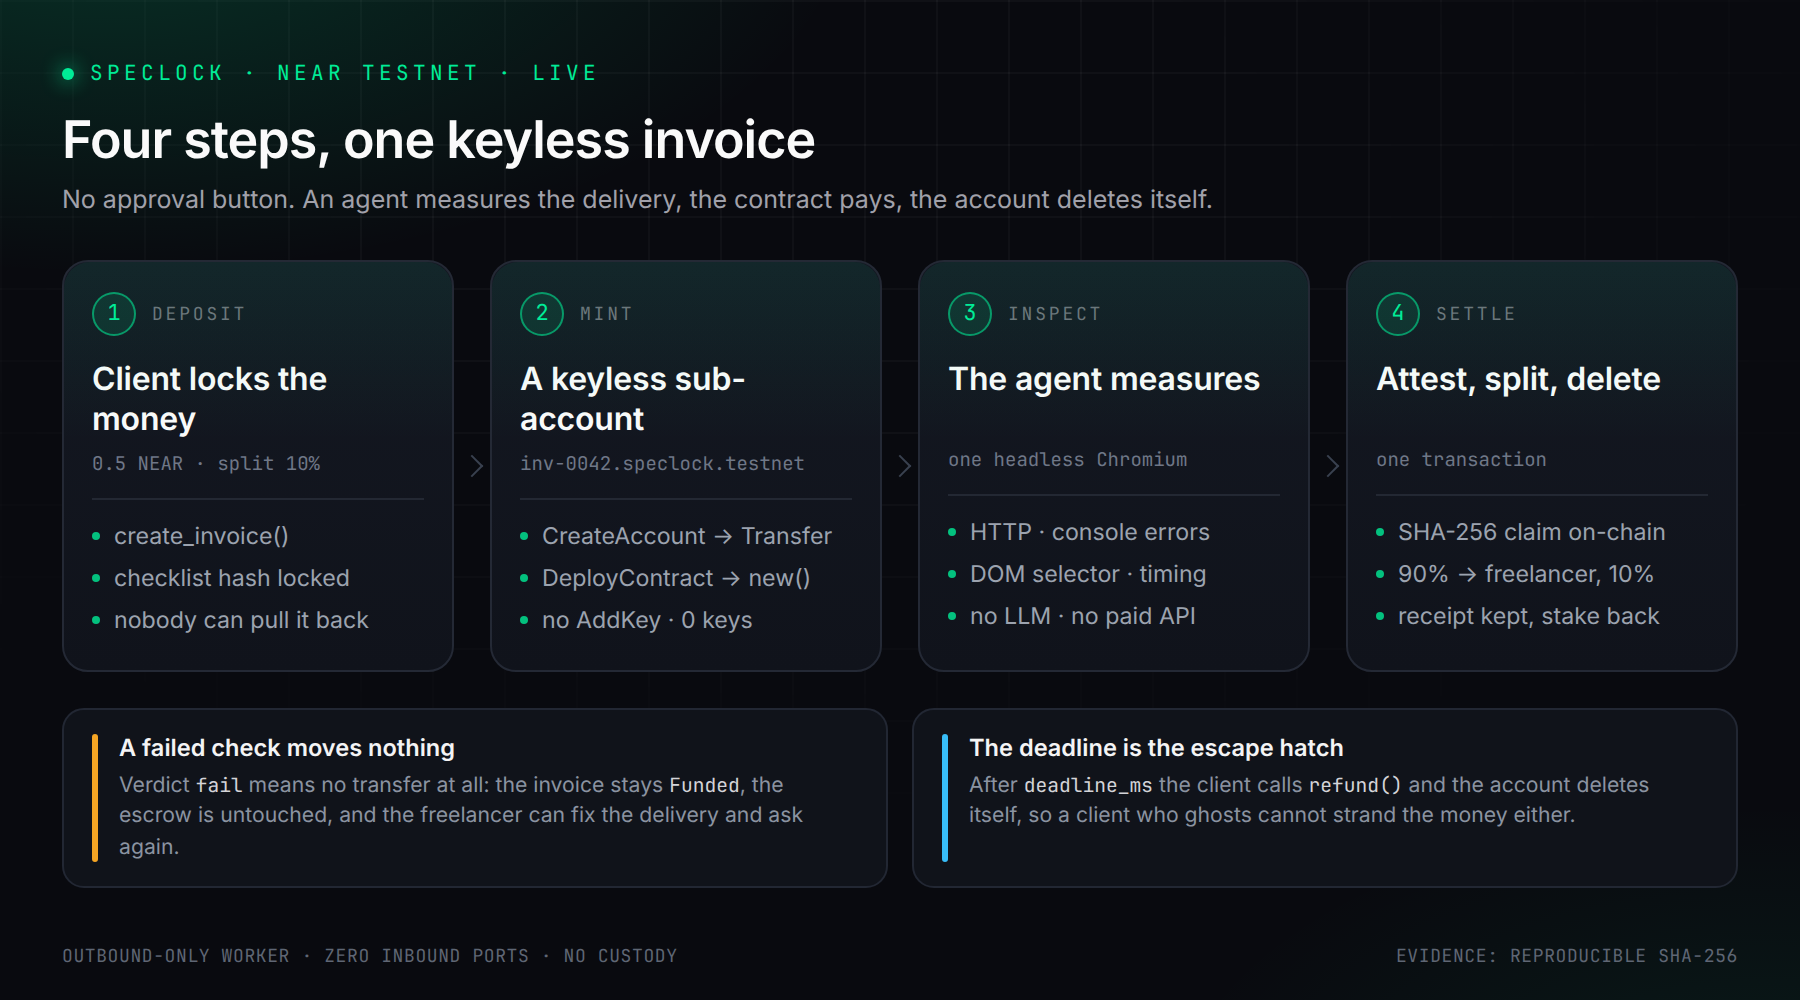
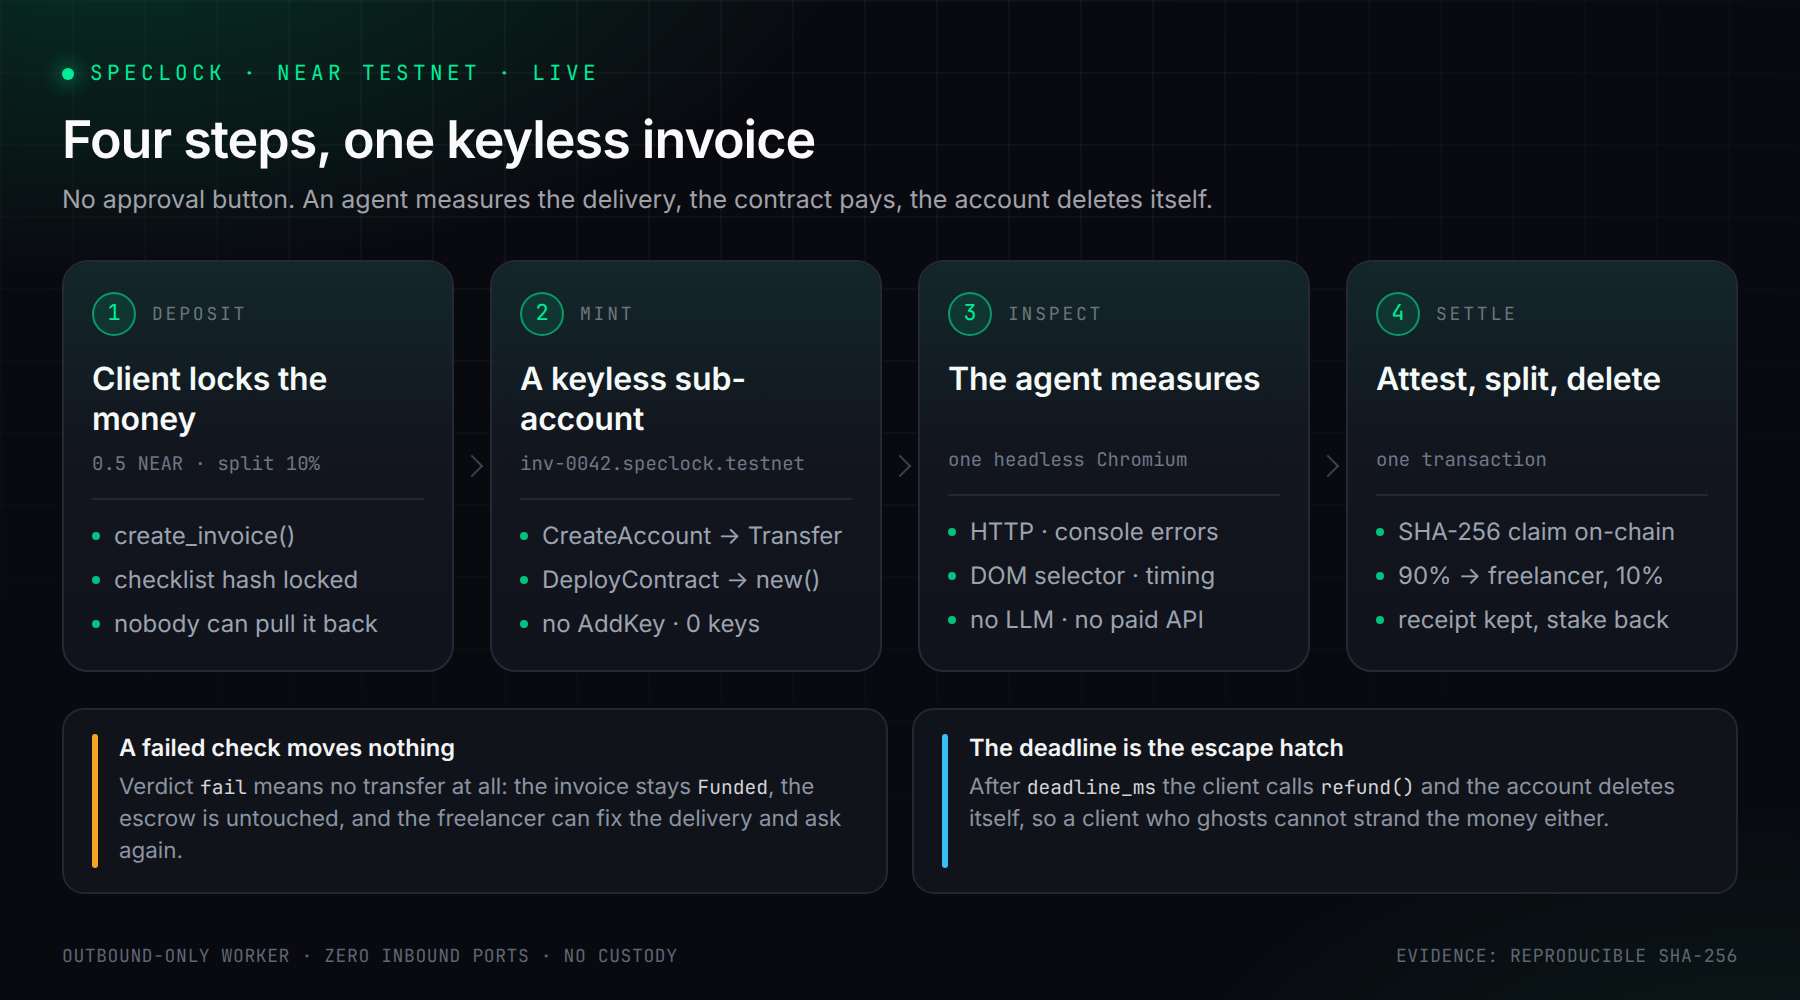
docs: nudge diagram label sizes for the width GitHub actually renders

diff --git a/docs/architecture.html b/docs/architecture.html
@@ -60,14 +60,14 @@
   .title { font-size: 16px; font-weight: 600; line-height: 1.22; margin-top: 12px; color: #fafafa; min-height: 37px; letter-spacing: -0.1px; }
   .mono { font-family: "JetBrains Mono", monospace; font-size: 9.5px; color: #6f7787; margin-top: 6px; }
   .rule { height: 1px; background: #232833; margin: 11px 0 10px; }
-  .b { font-size: 11.6px; color: #9ca3af; line-height: 1.4; padding-left: 11px; position: relative; margin-bottom: 5px; }
+  .b { font-size: 12px; color: #9ca3af; line-height: 1.4; padding-left: 11px; position: relative; margin-bottom: 5px; }
   .b::before { content: ""; position: absolute; left: 0; top: 6px; width: 4px; height: 4px; border-radius: 50%; background: rgba(0,236,151,0.8); }
 
   .foot { display: flex; gap: 12px; margin-top: 18px; }
   .note { flex: 1; border-radius: 11px; padding: 12px 14px; background: #10131a; border: 1px solid #222733; display: flex; gap: 11px; }
   .note .bar { width: 2.5px; align-self: stretch; border-radius: 3px; flex: 0 0 2.5px; }
   .note h3 { font-size: 11.8px; font-weight: 600; color: #f4f4f5; }
-  .note p { font-size: 10.6px; color: #8b93a1; line-height: 1.45; margin-top: 4px; }
+  .note p { font-size: 11.2px; color: #8b93a1; line-height: 1.45; margin-top: 4px; }
   .note code { font-family: "JetBrains Mono", monospace; font-size: 9.8px; color: #d4d4d8; }
 
   .tail {
